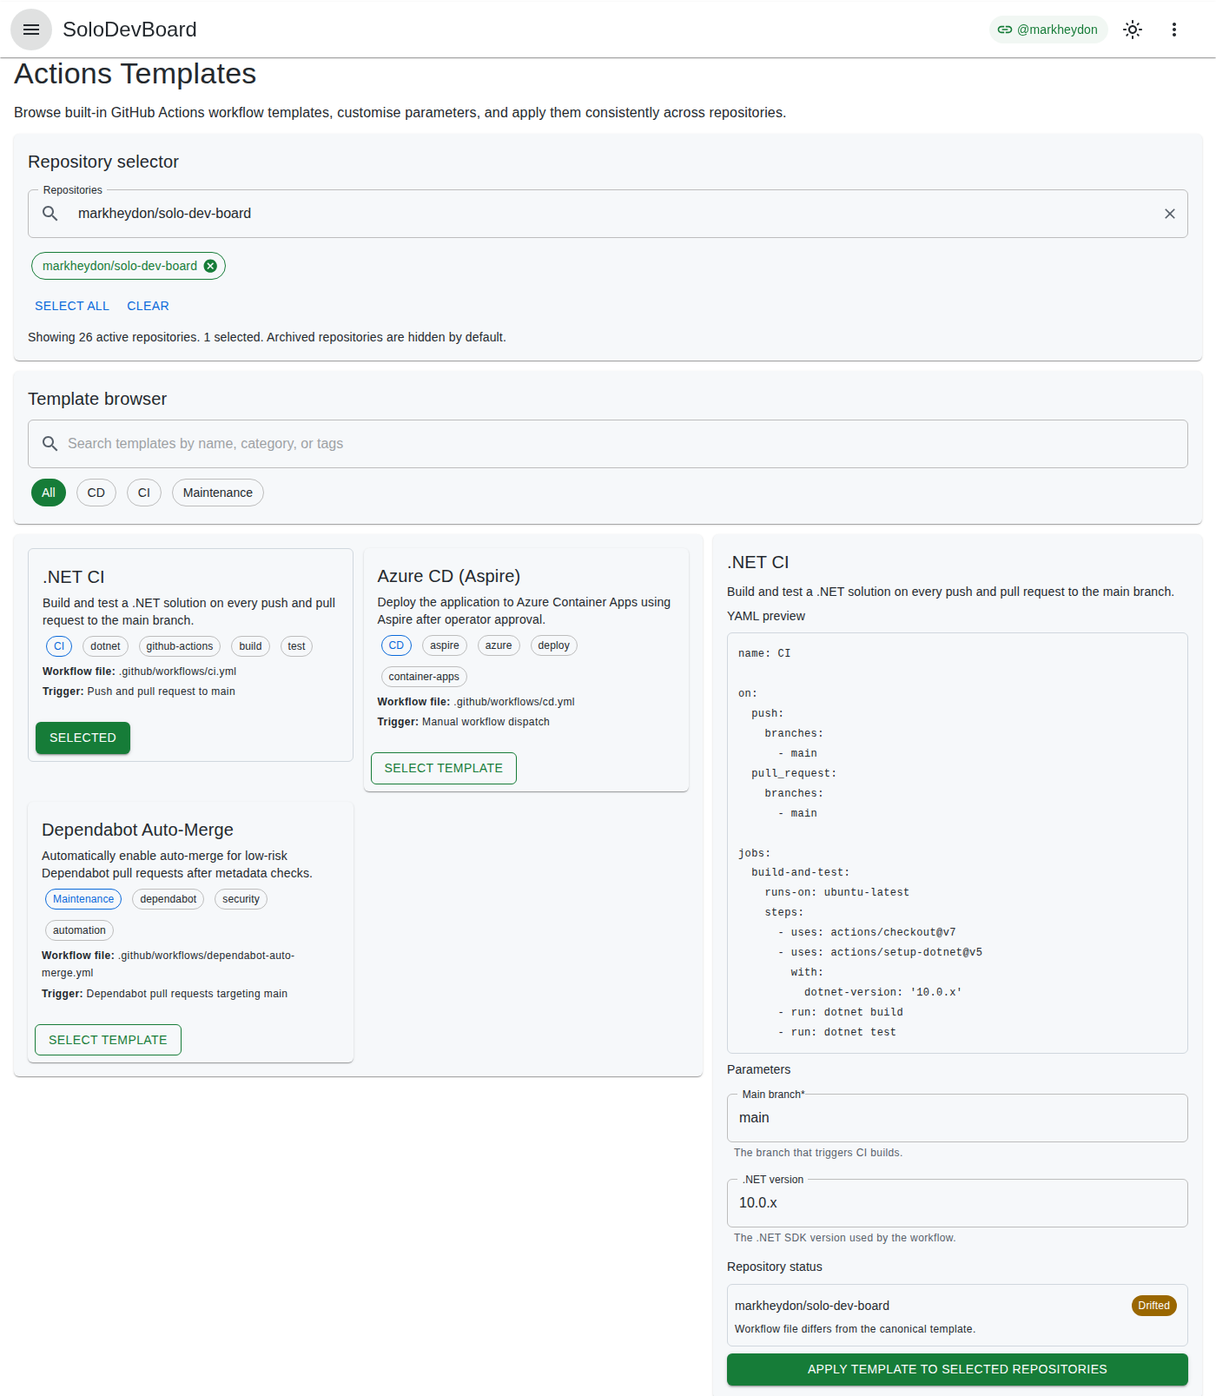
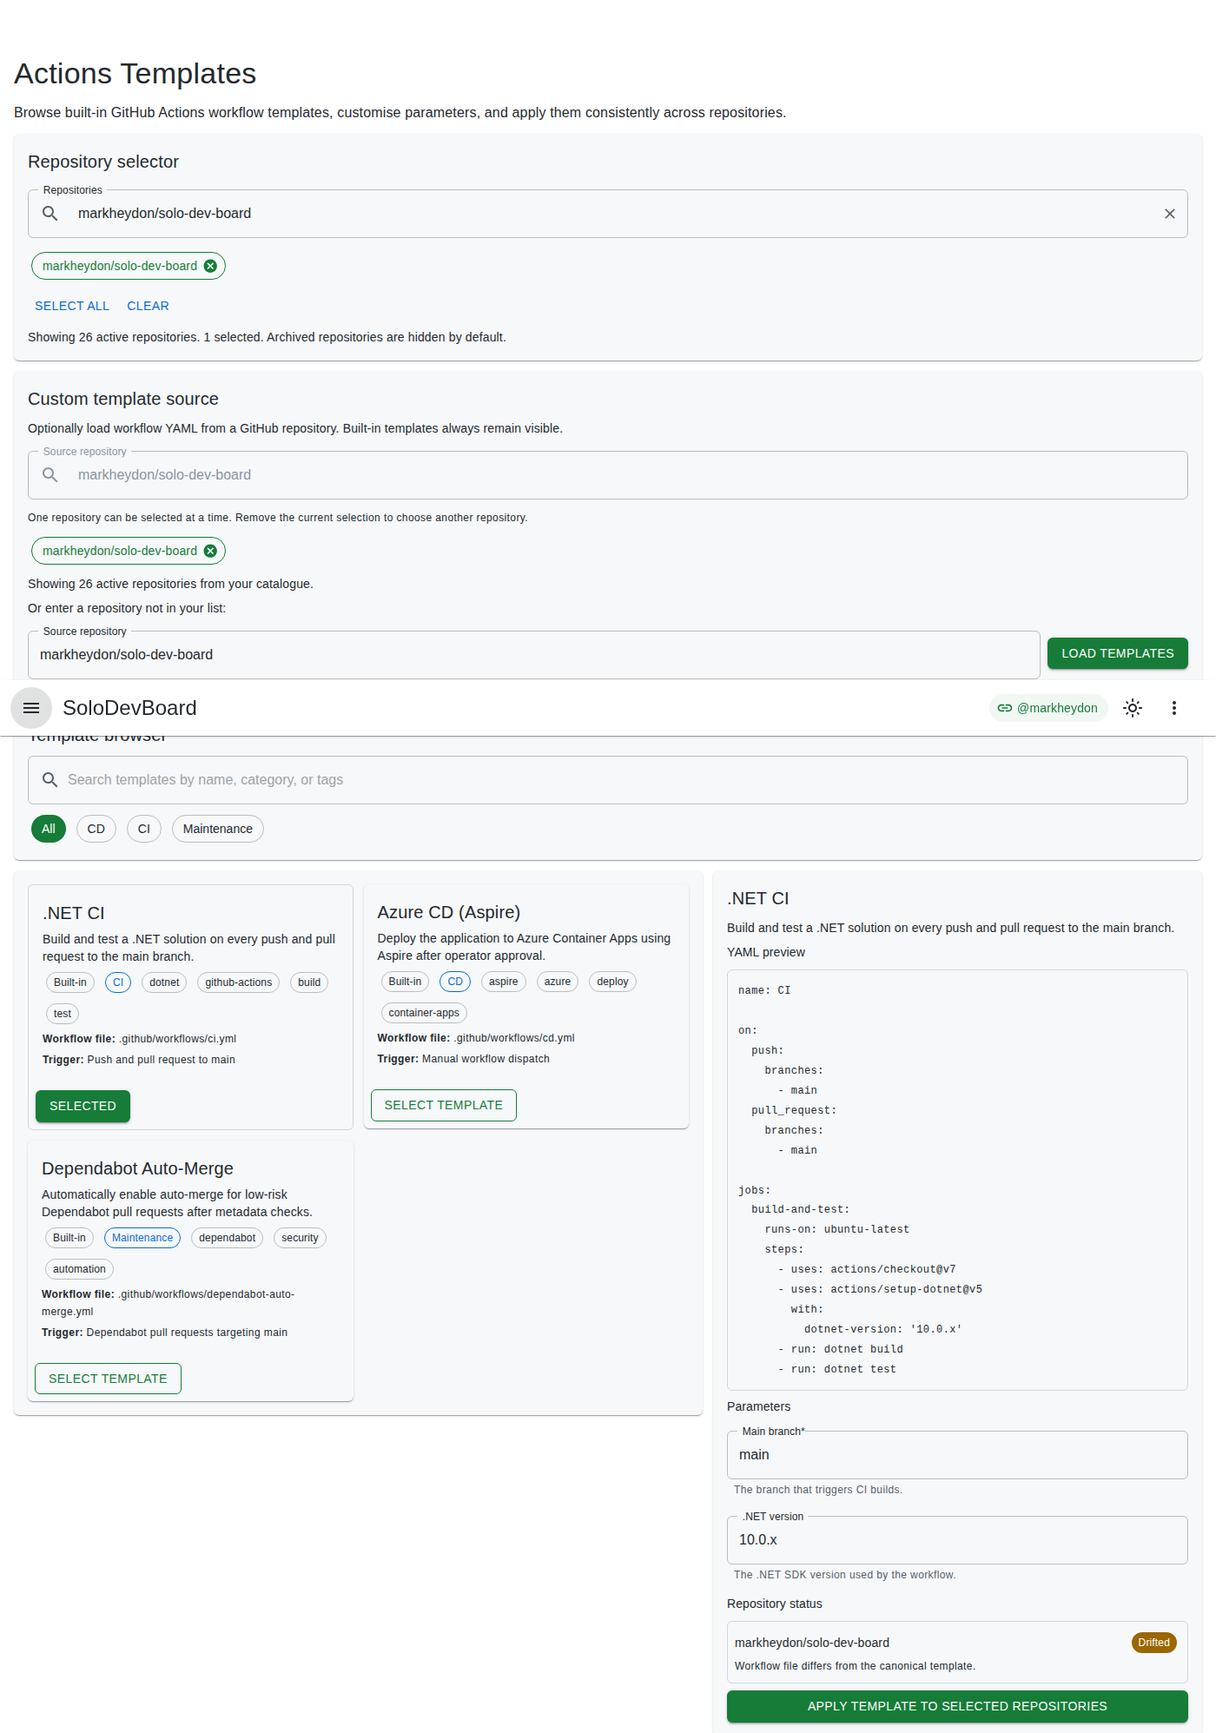
Document custom Actions template sources and recapture the user-guide screenshot.
Keep the published guide, changelog, and docs-update workflow aligned with the dual source picker so agents recapture screenshots when the UI changes.

diff --git a/tests/E2E/docs-capture/helpers.ts b/tests/E2E/docs-capture/helpers.ts
@@ -391,12 +391,19 @@ export async function prepareTriageForCapture(page: Page): Promise<void> {
 }
 
 /**
- * Prepares Actions Templates with the example repository selected and a template open in the detail panel.
+ * Prepares Actions Templates with the custom source section populated, the example repository
+ * selected as an apply target, and a built-in template open in the detail panel.
+ * Does not click Load templates, so the grid stays on built-ins for a readable overview.
  * @param page Playwright page.
  */
 export async function prepareActionsTemplatesForCapture(page: Page): Promise<void> {
   await openFeatureForCapture(page, '/actions-templates');
+
+  await expect(page.getByTestId('actions-templates-custom-source-region')).toBeVisible({ timeout: 30_000 });
+  await expect(page.getByTestId('actions-templates-custom-source-field')).toBeVisible({ timeout: 15_000 });
+
   await selectRepositoryInAutocomplete(page, 'workflow-repository-autocomplete');
+  await selectRepositoryInAutocomplete(page, 'actions-templates-custom-source-autocomplete');
 
   await expect(page.getByTestId('actions-templates-grid')).toBeVisible({ timeout: 60_000 });
 

diff --git a/website/content/docs/actions-templates.md b/website/content/docs/actions-templates.md
@@ -3,7 +3,7 @@ weight: 70
 title: Actions Templates
 landing: true
 landingIcon: account_tree
-landingSubtitle: "Browse, customise, and apply GitHub Actions workflow templates across repositories."
+landingSubtitle: "Browse, customise, and apply GitHub Actions workflow templates, including one custom GitHub source."
 guideStatus: Partially Available
 ---
 
@@ -11,7 +11,7 @@ guideStatus: Partially Available
 
 The Actions Templates feature allows you to browse, apply, and customise GitHub Actions workflow templates across your repositories, all from within SoloDevBoard. Rather than manually copying YAML files between repositories, you can manage templates centrally and push them where needed.
 
-![Actions Templates with a selected template YAML preview for markheydon/solo-dev-board](/images/actions-templates/overview.png)
+![Actions Templates showing the custom template source section and a selected template YAML preview for markheydon/solo-dev-board](/images/actions-templates/overview.png)
 
 Key goals of Actions Templates:
 - Provide a library of reusable GitHub Actions workflow templates suited to common .NET development patterns.
@@ -44,11 +44,15 @@ Each template card shows:
 
 ### Load custom template repositories
 
-1. In the **Custom template source** section, select a repository from your catalogue using the source repository selector, or enter a GitHub repository in `owner/name` format when it is not in your list.
+The apply **Repository selector** at the top of the page is independent of the custom source. Custom templates always load from one `owner/name` at a time.
+
+1. In the **Custom template source** section, select a **Source repository** from your catalogue, or enter a GitHub repository in `owner/name` format when it is not in your list.
 2. Selecting a catalogue repository fills the manual field with that `owner/name` but does not load templates until you select **Load templates**.
-3. Select **Load templates** to fetch workflow YAML from `.github/workflows` in that repository.
+3. Select **Load templates** to fetch workflow YAML from the top level of `.github/workflows` in that repository (`*.yml` and `*.yaml` only; nested folders are not scanned).
 4. Custom templates appear in the same card grid as built-ins, each with a source badge showing the repository you loaded.
-5. SoloDevBoard remembers the last-used source in your browser. On your next visit it pre-selects the catalogue repository when it is still in your list, otherwise it pre-fills the manual field, and loads that catalogue automatically.
+5. SoloDevBoard remembers the last-used source in your browser. On your next visit it pre-selects the catalogue repository when it is still in your list, otherwise it pre-fills the manual field, shows a last-used caption, and loads that catalogue automatically.
+
+If the apply catalogue cannot be loaded, the source repository selector is hidden and you can still type an `owner/name` and select **Load templates**.
 
 Built-in templates always remain visible. If the source is invalid, inaccessible, or has no workflow files, a clear message is shown and you can continue using built-ins.
 
@@ -97,6 +101,6 @@ Drift detection is informational and does not block browsing or previewing templ
 Current behaviour:
 
 - Built-in templates are always available.
-- One additional GitHub `owner/name` source can be loaded per session. The last-used source is remembered in browser storage only.
+- One additional GitHub `owner/name` source can be loaded per session (catalogue selector or manual field). The last-used source is remembered in browser storage only.
 - Parameter values are entered per apply run in the UI.
 - There are no `appsettings.json` entries specific to this feature.

diff --git a/plan/DOCS_STRATEGY.md b/plan/DOCS_STRATEGY.md
@@ -153,7 +153,7 @@ When Copilot or another AI agent is asked to write or update documentation:
 
 1. **UK English required.** All documentation must use UK English spelling. Run a spell check if possible.
 2. **Accuracy over completeness.** Do not document features that are not yet implemented. Use "Coming Soon" or "Under Development" notices for stubs.
-3. **Sync with code and E2E.** When updating docs, verify that the documented behaviour matches the current implementation and that Playwright specs in `tests/E2E/tests/` assert the same routes, controls, and workflows. Maintain the mapping in [tests/E2E/USER_DOCS_ALIGNMENT.md](../tests/E2E/USER_DOCS_ALIGNMENT.md).
+3. **Sync with code, E2E, and screenshots.** When updating docs, verify that the documented behaviour matches the current implementation and that Playwright specs in `tests/E2E/tests/` assert the same routes, controls, and workflows. Maintain the mapping in [tests/E2E/USER_DOCS_ALIGNMENT.md](../tests/E2E/USER_DOCS_ALIGNMENT.md). If the in-app UI for a published guide or landing tile changed materially, recapture `website/static/images/` in the same docs-update via `cd tests/E2E && npm run capture:docs` (or a focused `-g` filter) against a local app with a real PAT and `DocsCapture:Enabled=true`. Update `tests/E2E/docs-capture/` helpers when the prepare path no longer shows the documented state. Do not leave recapture as a later note. If capture cannot run, report it as blocked.
 4. **Link generously.** Cross-reference related docs, decisions, and planning files. Use relative links within the same docs tree; use GitHub blob URLs when linking from the published site to repository-only files.
 5. **Heading hierarchy.** Use H1 for the page title, H2 for major sections, H3 for subsections. Do not skip levels.
 6. **Code blocks.** All code, commands, and configuration snippets must be in fenced code blocks with the appropriate language identifier.
@@ -169,7 +169,7 @@ When Copilot or another AI agent is asked to write or update documentation:
 >
 > | Code Change | Documentation Action |
 > |-------------|---------------------|
-> | New end-user feature implemented | Update `website/content/docs/<feature>.md` to full content; remove "Under Development" notice; refresh site indexes |
+> | New end-user feature implemented | Update `website/content/docs/<feature>.md` to full content; remove "Under Development" notice; refresh site indexes; recapture feature screenshots when the UI changed |
 > | New environment variable | Update `docs/getting-started.md` configuration table and `docs/deployment.md` |
 > | New architectural decision | Follow `repo-decision-log`; update `plan/DECISIONS.md` and constitution if cross-cutting |
 > | Scope change | Update `plan/SCOPE.md`; update `website/content/_index.md` if the published feature list changes |

diff --git a/plan/IMPLEMENTATION_PLAN.md b/plan/IMPLEMENTATION_PLAN.md
@@ -153,7 +153,7 @@ All planned front-end delivery after ADR-0012 uses MudBlazor as the sole UI comp
 - [x] Include built-in templates: CI (dotnet), CD (Aspire deploy to Azure Container Apps), Dependabot
 - [x] Write unit tests for `ActionsTemplateService`
 - [x] Update `website/content/docs/actions-templates.md`
-- [ ] Support custom template repositories — one GitHub `owner/name` source via catalogue selector or manual field, merged catalogue, localStorage last-used ([#292](https://github.com/markheydon/solo-dev-board/issues/292), [DEC-038](DECISIONS.md#dec-038-custom-actions-template-sources)).
+- [x] Support custom template repositories — one GitHub `owner/name` source via catalogue selector or manual field, merged catalogue, localStorage last-used ([#292](https://github.com/markheydon/solo-dev-board/issues/292), [DEC-038](DECISIONS.md#dec-038-custom-actions-template-sources)).
 
 ### Dependencies
 
@@ -270,7 +270,7 @@ All locked-in leaves are closed. Shipped as [`v1.1.0`](https://github.com/markhe
 - [ ] Reload from GitHub on Board Rules, keeping repository (and comparison) selection. _(#449)_
 - [ ] Roll Reload from GitHub out to remaining GitHub-backed surfaces. _(#451, parent epic #447)_
 - [ ] Split hosted GitHub OAuth and API HttpClients for REST header defaults. _(#453)_
-- [ ] Custom workflow template repositories: one GitHub YAML source (catalogue selector or manual field), inferred parameters, apply/drift parity, last-used localStorage. _(#292, DEC-038)_
+- [x] Custom workflow template repositories: one GitHub YAML source (catalogue selector or manual field), inferred parameters, apply/drift parity, last-used localStorage. _(#292, DEC-038)_
 - [ ] Unify the Triage action surface into Save and next (process) versus duplicate versus skip — usability only, not opinionated-workflow integration. _(#492)_
 
 ### Delivery sequence
@@ -278,7 +278,7 @@ All locked-in leaves are closed. Shipped as [`v1.1.0`](https://github.com/markhe
 1. Plan and size #449 (and the Reload tree) before coding.
 2. #403 can proceed in parallel as Planning catch-up (closed Feature #272).
 3. #453 is an independent `size/s` chore.
-4. #292 is specified to implement (DEC-038). Deliver the enabler (catalogue loader) then the dual source-picker UI (catalogue selector plus manual field) and tests. Do not ice-box again.
+4. #292 is specified (DEC-038). Enabler (#497), dual source-picker UI, and tests are on this delivery; do not ice-box again.
 5. #492 is independent usability work on `/triage`. Revise the wireframe before implementation. Do not expand it into PM-workflow integration.
 6. Do not start #450, #293, or #391 on this milestone.
 

diff --git a/tests/E2E/CRITICAL_JOURNEYS.md b/tests/E2E/CRITICAL_JOURNEYS.md
@@ -41,7 +41,7 @@ For data-driven journeys against a real GitHub account, run the PAT suite locall
 | One-Click Migration setup shell | `migrate.spec.ts` | Workflow controls, columns scope switch, nested ignore `area/*` control (default on), Overwrite keep `area/*` control when repositories load, disabled preview, and API failure feedback. |
 | Board Rules selector, compare mode, and Reload from GitHub | `board-rules.spec.ts` | Selector region, compare toggle, Reload from GitHub when the catalogue loads (placeholder auth keeps repository error retry), and repository load failure. Compare-mode reload and unsupported-board Try again keep-selection are covered in bUnit. |
 | Label Manager taxonomy tabs, bulk delete shell, keep `area/*` controls, and repository load failure feedback | `labels.spec.ts` | Tab strip, disabled bulk delete, nested keep `area/*` checkbox on Recommended taxonomy when remove-outside is enabled, Synchronise keep control, and repository load failure in the feedback region. |
-| Workflow template browse, filter, and select | `actions-templates.spec.ts` | Built-in templates load; repository selector shows error. |
+| Workflow template browse, filter, select, and custom source shell | `actions-templates.spec.ts` | Built-in templates load; custom source region and manual field are visible; apply repository selector shows error. |
 | Triage not-started region without repositories | `triage.spec.ts` | Shell heading and no-repositories alert. |
 | Planning — Daily Focus, Backlog Review, Iteration, and Repo Management shells | `planning.spec.ts` | Shared chrome, Daily Focus occupancy, recommendations, stalled Up Next, and stalled-review regions or empty/error/warning copy, Backlog Review filters and all grouping panels (urgent, ready, awaiting triage, blocked, epics near completion, neglected repositories) or empty/error/warning copy, Iteration Planning Up Next, capacity region, conditional stall gate and pause line, and candidate regions or empty/error/warning copy, Repos tab thresholds, exclusions, and per-repository summary or chrome error with retry. Dedicated `Daily Focus`, `Backlog Review`, `Iteration Planning`, and `Repo Management` describe blocks assert route shells and tab-specific no-board/empty/error states. |
 

diff --git a/plan/RELEASE_PLAN.md b/plan/RELEASE_PLAN.md
@@ -129,7 +129,7 @@ Application version numbers are calculated automatically at build time by [MinVe
 - Optional board-scoped Daily Focus recommendations ([#403](https://github.com/markheydon/solo-dev-board/issues/403))
 - Reload from GitHub, keep selection ([#447](https://github.com/markheydon/solo-dev-board/issues/447), [#449](https://github.com/markheydon/solo-dev-board/issues/449), [#451](https://github.com/markheydon/solo-dev-board/issues/451))
 - Split hosted GitHub OAuth and API HttpClients ([#453](https://github.com/markheydon/solo-dev-board/issues/453))
-- Custom workflow template repositories ([#292](https://github.com/markheydon/solo-dev-board/issues/292), [DEC-038](DECISIONS.md#dec-038-custom-actions-template-sources)) — one GitHub YAML source merged into Actions Templates; last-used localStorage only
+- Custom workflow template repositories ([#292](https://github.com/markheydon/solo-dev-board/issues/292), [DEC-038](DECISIONS.md#dec-038-custom-actions-template-sources)) — one GitHub YAML source via catalogue selector or manual field, merged into Actions Templates; last-used localStorage only
 - Triage action-surface usability ([#492](https://github.com/markheydon/solo-dev-board/issues/492)) — Save and next / duplicate / skip layout only
 
 **Out of milestone:** Window-focus refetch ([#450](https://github.com/markheydon/solo-dev-board/issues/450), ice-box); hosted private Projects v2 ([#293](https://github.com/markheydon/solo-dev-board/issues/293)); Aspire PM settings store ([#391](https://github.com/markheydon/solo-dev-board/issues/391)); newer ice-box catalogue and hygiene work ([#381](https://github.com/markheydon/solo-dev-board/issues/381), [#397](https://github.com/markheydon/solo-dev-board/issues/397), [#411](https://github.com/markheydon/solo-dev-board/issues/411), [#435](https://github.com/markheydon/solo-dev-board/issues/435)–[#439](https://github.com/markheydon/solo-dev-board/issues/439), [#470](https://github.com/markheydon/solo-dev-board/issues/470)).

diff --git a/.agents/contracts/tech-writer.md b/.agents/contracts/tech-writer.md
@@ -66,6 +66,8 @@ Focus on:
 
 Keep guides aligned with implemented functionality.
 
+When the in-app UI for a documented page changes materially (new region, control, or loaded layout), recapture the matching image under `website/static/images/` using the Playwright docs-capture suite. Adjust `tests/E2E/docs-capture/` helpers when the old prepare path no longer shows the documented state. Do not ship a guide that describes a control the committed screenshot still omits.
+
 ---
 
 ### 3. Repository Documentation
@@ -172,7 +174,7 @@ Use:
 
 Do NOT:
 
-- Write application code.
+- Write application feature code (C# / Razor / AppHost) unless a docs-capture helper cannot show the documented UI without a tiny test-only change — prefer helper updates first.
 - Create pull requests.
 - Create GitHub issues.
 - Manage project boards.
@@ -180,6 +182,8 @@ Do NOT:
 - Make architectural decisions.
 
 Document decisions made by others.
+
+Screenshot recapture, Hugo content, alignment maps, and `tests/E2E/docs-capture/` helpers are documentation work, not feature delivery.
 
 ---
 
@@ -191,6 +195,7 @@ Work is complete when:
 - UK English verified.
 - Links validated.
 - Markdown structure reviewed.
+- Screenshots recaptured when the user-facing UI changed materially, or the recapture is explicitly blocked (no real PAT / docs-capture mode) in the output.
 
 ---
 
@@ -212,3 +217,4 @@ Validation:
 - UK English verified.
 - Links reviewed.
 - Markdown validated.
+- Screenshots recaptured, skipped with rationale, or blocked.

diff --git a/tests/E2E/USER_DOCS_ALIGNMENT.md b/tests/E2E/USER_DOCS_ALIGNMENT.md
@@ -155,6 +155,17 @@ Issue [#415](https://github.com/markheydon/solo-dev-board/issues/415) closes the
 | Setup shell, disabled preview, API failure feedback | — | `migrate.spec.ts` |
 | Migration overview screenshot with board selectors | — | `docs-capture` (`one-click-migration/overview.png`) |
 
+### Actions Templates
+
+| Guide section | CI assertion | Loaded-state validation |
+|---------------|--------------|-------------------------|
+| Accessing (`/actions-templates`) | `actions-templates.spec.ts` URL via `goto`, browser region, grid, built-in card | `docs-capture` |
+| Custom template source (selector, manual `owner/name`, Load templates) | `actions-templates-custom-source-region` and `actions-templates-custom-source-field` | `ActionsTemplatesTests` dual picker, last-used restore, and load; `docs-capture` (`actions-templates/overview.png`) with the source section populated |
+| Browse, search, and select built-in templates | Search box, `.NET CI` heading, selected card | `docs-capture` |
+| Apply repository selector load failure | `actions-templates-repositories-error-state` and "Unable to load repositories" | — |
+| Source badges, inferred `{{token}}` parameters, apply, and drift | — | Unit/component tests; `docs-capture` for populated YAML preview |
+| Persisted parameter profiles | — | Later ([#436](https://github.com/markheydon/solo-dev-board/issues/436)) |
+
 ### Appearance
 
 | Guide section | CI assertion | Loaded-state validation |

diff --git a/.agents/workflows/docs-update.md b/.agents/workflows/docs-update.md
@@ -1,12 +1,15 @@
 # Docs Update
 
 **Contract:** [`.agents/contracts/tech-writer.md`](../contracts/tech-writer.md)
-**Skills (on demand):** `documentation-writer`
+**Skills (on demand):** `documentation-writer`; `aspire` and `playwright-cli` when user-guide screenshots must be recaptured.
 
 ## Easy-to-miss specifics
 
 - Documentation is the deliverable — use when docs themselves are the primary output.
 - Do not use for minor documentation tweaks during normal implementation; Delivery handles those.
+- When a published user-guide page or landing tile changes **materially in the UI**, recapture the matching `website/static/images/` screenshot in the same docs-update. Prefer `cd tests/E2E && npm run capture:docs` (or a focused `-g` filter) against a local app with a real PAT and `DocsCapture:Enabled=true`. See [plan/DOCS_STRATEGY.md](../../plan/DOCS_STRATEGY.md#screenshot-convention) and [tests/E2E/README.md](../../tests/E2E/README.md#documentation-screenshots).
+- Do not treat screenshot recapture as optional follow-up. If PAT, Aspire, or docs-capture mode is missing, say so and stop that slice as blocked — do not mark the docs-update complete.
+- Updating `tests/E2E/docs-capture/` helpers so the capture shows the documented loaded state is in scope. That is not application feature code.
 
 ## Invocation
 

diff --git a/tests/E2E/README.md b/tests/E2E/README.md
@@ -21,7 +21,7 @@ Published user guides must stay aligned with these tests like-for-like. See [USE
 | `migrate.spec.ts` | One-Click Migration setup shell, columns scope switch, and API failure feedback |
 | `board-rules.spec.ts` | Board Rules selector region, compare mode, Reload from GitHub when the catalogue loads, and repository load failure |
 | `labels.spec.ts` | Label Manager shell, tabs, and repository load failure feedback |
-| `actions-templates.spec.ts` | Built-in template browse/filter/select and repository error state |
+| `actions-templates.spec.ts` | Built-in template browse/filter/select, custom source region and manual field, and repository error state |
 | `triage.spec.ts` | Triage shell and no-repositories alert without a live GitHub connection |
 | `planning.spec.ts` | Planning — Daily Focus occupancy, recommendations, stalled Up Next, stalled-review, Backlog Review, and Iteration shells, plus Repos tab threshold, exclusion, and summary regions or chrome error |
 | `accessibility.spec.ts` | WCAG 2.1 AA axe-core scan of Tier 1–2 journeys in light and dark mode; labelled shell controls; isolated snackbar contrast scan |

diff --git a/.agents/skills/documentation-writer/SKILL.md b/.agents/skills/documentation-writer/SKILL.md
@@ -13,10 +13,11 @@ This skill enables Copilot to create, review, and improve software documentation
 - Ask for documentation review and improvement suggestions
 
 ## Guidelines
-- Use clear, concise UK English
-- Structure documentation according to Diátaxis principles
-- Link to relevant code, tests, and user guides
-- Ensure documentation is discoverable and up-to-date
+- Use clear, concise UK English.
+- Structure documentation according to Diátaxis principles.
+- Link to relevant code, tests, and user guides.
+- Ensure documentation is discoverable and up-to-date.
+- When a user-guide page describes a UI that changed, recapture `website/static/images/` via `tests/E2E` `npm run capture:docs` (real PAT, `DocsCapture:Enabled=true`). Do not defer recapture.
 
 ## References
 - [Diátaxis Framework](https://diataxis.fr/)

diff --git a/CHANGELOG.md b/CHANGELOG.md
@@ -7,6 +7,10 @@ and this project adheres to [Semantic Versioning](https://semver.org/spec/v2.0.0
 
 ## [Unreleased]
 
+### Added
+
+- **Actions Templates** — load one additional GitHub `owner/name` custom template source via the catalogue selector or a manual field, merge `.github/workflows` YAML with built-ins, and remember the last-used source in browser storage ([#292](https://github.com/markheydon/solo-dev-board/issues/292), [#497](https://github.com/markheydon/solo-dev-board/issues/497)).
+
 ## [1.1.0] - 2026-08-31
 
 Cross-Repo Planning & Refinement release. GitHub milestone [`v1.1 - Cross-Repo Planning & Refinement`](https://github.com/markheydon/solo-dev-board/milestone/7) closed with 91 issues delivered.
